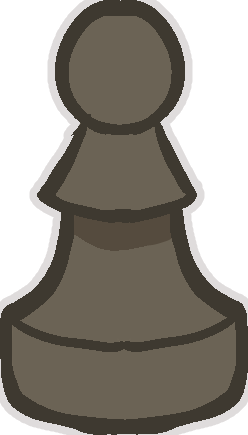
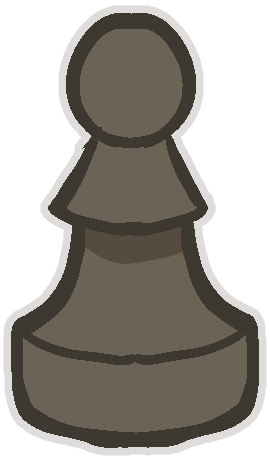
pawn size

diff --git a/src/main/java/scenes/Chess.java b/src/main/java/scenes/Chess.java
@@ -41,7 +41,7 @@ public class Chess extends Scene {
     Color offWhite = new Color(252, 234, 201); 
     Color black = new Color(58,54,51);
 
-    GameObject test;
+    GameObject blackPawn;
     GameServer server;
     GameClient client;
     public static void main (String[] args) {
@@ -55,9 +55,9 @@ public class Chess extends Scene {
         camera = new Camera();
         setDefaultBackground(Color.GRAY);
 
-        test = new GameObject(new Vector2f(50,50));
+        blackPawn = new GameObject(new Vector2f(50,50));
 
-        test.addComponent(new SpriteRenderer("src/assets/images/black pawn.png", new Vector2f(248,435)));
+        blackPawn.addComponent(new SpriteRenderer("src/assets/images/black pawn.png", new Vector2f(270,460)));
 
         animeAceFont = new Font("src/assets/fonts/AnimeAce.ttf", 72, true);
         titleText = new Text("CHESS", animeAceFont, offWhite, Window.getWidth() / 2, 5, 1, true, true);
